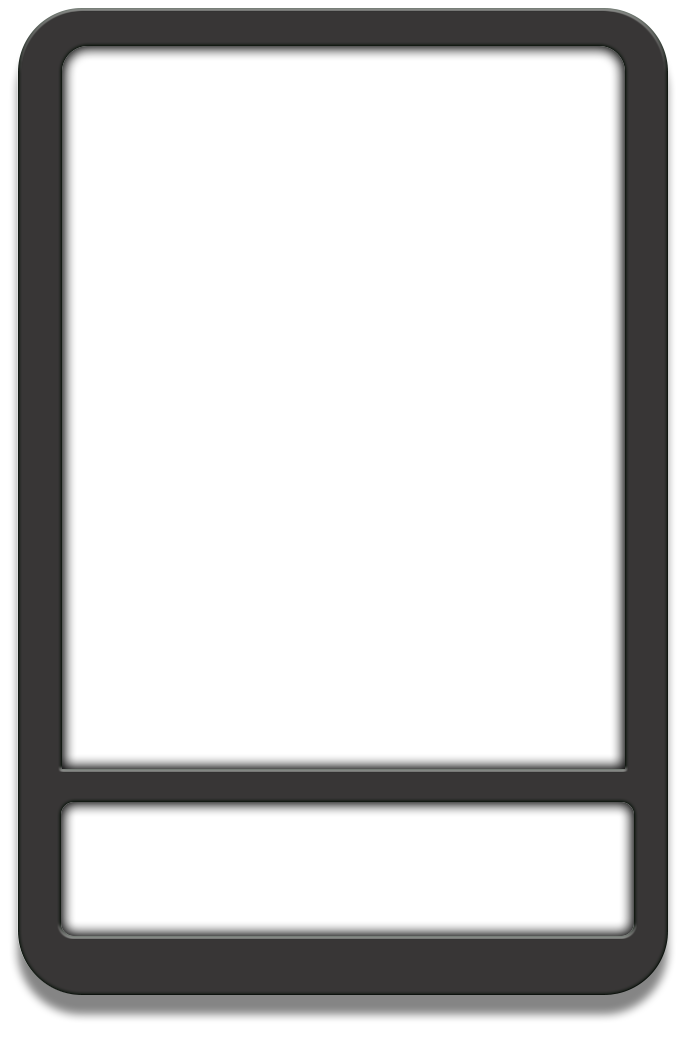
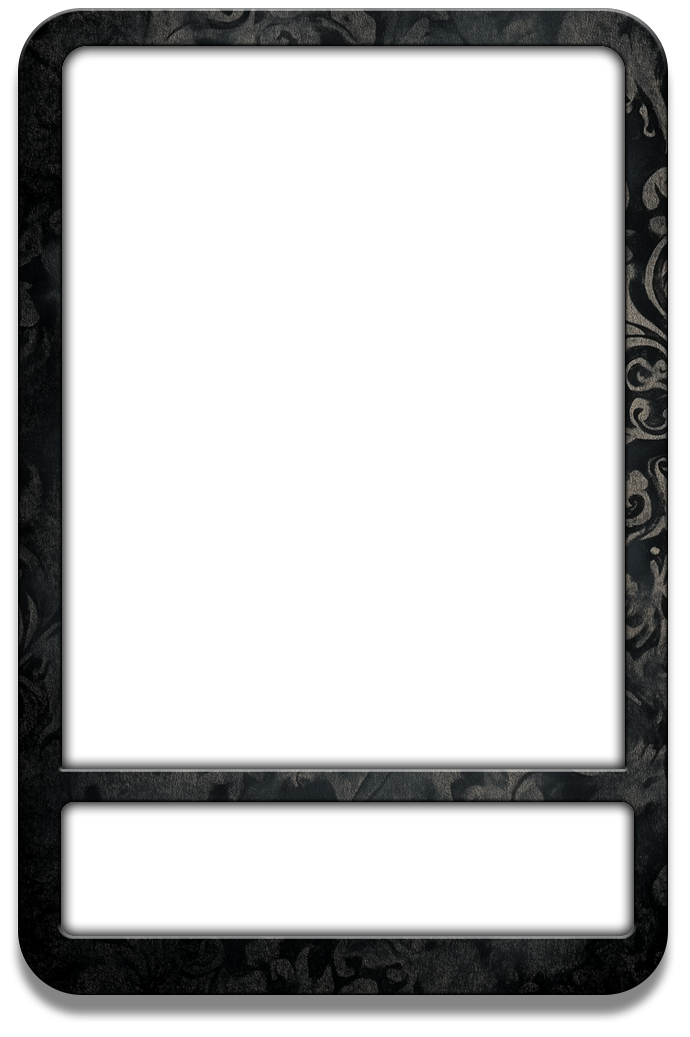
nuevos bordes

diff --git a/index.html b/index.html
@@ -114,9 +114,25 @@
             <div id="border-options">
                 <p>Seleccioná un borde:</p>
                 <img class="border-thumb active" data-border="imagenes/bordes/greenMarble.png"
-                    src="imagenes/bordes/greenMarble.png" alt="Borde Green Marble" width="60">
+                    src="imagenes/bordes/greenMarble.png" alt="Borde Marmol Verde" width="60">
+                <img class="border-thumb" data-border="imagenes/bordes/redMarble.png"
+                    src="imagenes/bordes/redMarble.png" alt="Borde Marmol Rojo" width="60">
+                <img class="border-thumb" data-border="imagenes/bordes/whiteMarble.png"
+                    src="imagenes/bordes/whiteMarble.png" alt="Borde Marmol Blanco" width="60">
                 <img class="border-thumb" data-border="imagenes/bordes/gray.png" src="imagenes/bordes/gray.png"
                     alt="Borde Gray" width="60">
+                <img class="border-thumb" data-border="imagenes/bordes/blackLeather.png"
+                    src="imagenes/bordes/blackLeather.png" alt="Borde Cuero Negro" width="60">
+                <img class="border-thumb" data-border="imagenes/bordes/oxido.png" src="imagenes/bordes/oxido.png"
+                    alt="Borde Oxido" width="60">
+                <img class="border-thumb" data-border="imagenes/bordes/greenPaint.png"
+                    src="imagenes/bordes/greenPaint.png" alt="Borde Pintura Verde" width="60">
+                <img class="border-thumb" data-border="imagenes/bordes/gothic.png" src="imagenes/bordes/gothic.png"
+                    alt="Borde Gótico" width="60">
+                <img class="border-thumb" data-border="imagenes/bordes/anarchy.png" src="imagenes/bordes/anarchy.png"
+                    alt="Borde Anarquía" width="60">
+                <img class="border-thumb" data-border="imagenes/bordes/splatter.png" src="imagenes/bordes/splatter.png"
+                    alt="Borde Splatter" width="60">
             </div>
             <!-- Ajustes de posición de la imagen -->
             <div id="adjustments-container">

diff --git a/styles.css b/styles.css
@@ -57,7 +57,7 @@ button {
     align-items: flex-start;
     max-width: 950px;
     min-width: 800px;
-    width: 90%;
+    width: 100%;
     background-color: var(--background-color);
     border-radius: 8px;
     box-shadow: 0 2px 10px rgba(0, 0, 0, 0.1);
@@ -233,7 +233,8 @@ button {
 }
 
 .border-thumb.active {
-    border-color: #0077cc;
+    /* border-color: var(--primary-color); */
+    box-shadow: 0 0 10px var(--primary-color);
 }
 
 /* Estilos de los ajustes de la imagen */
